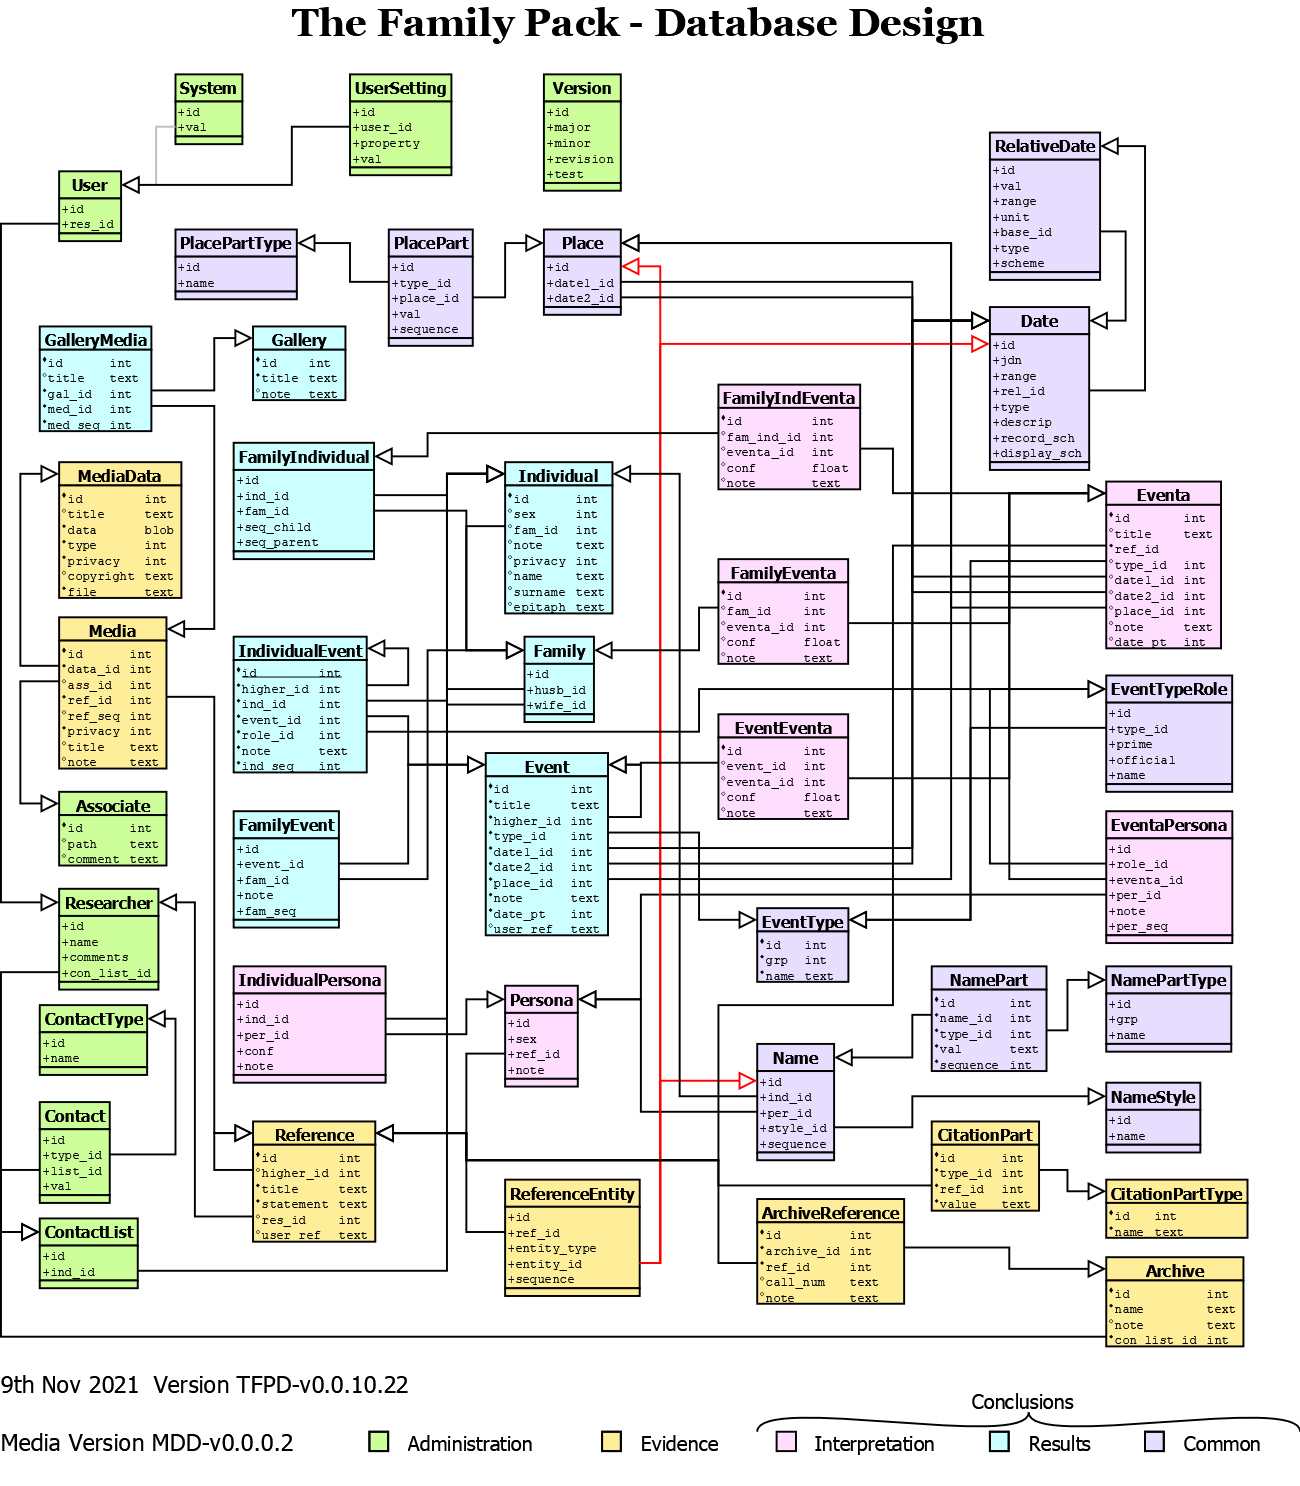
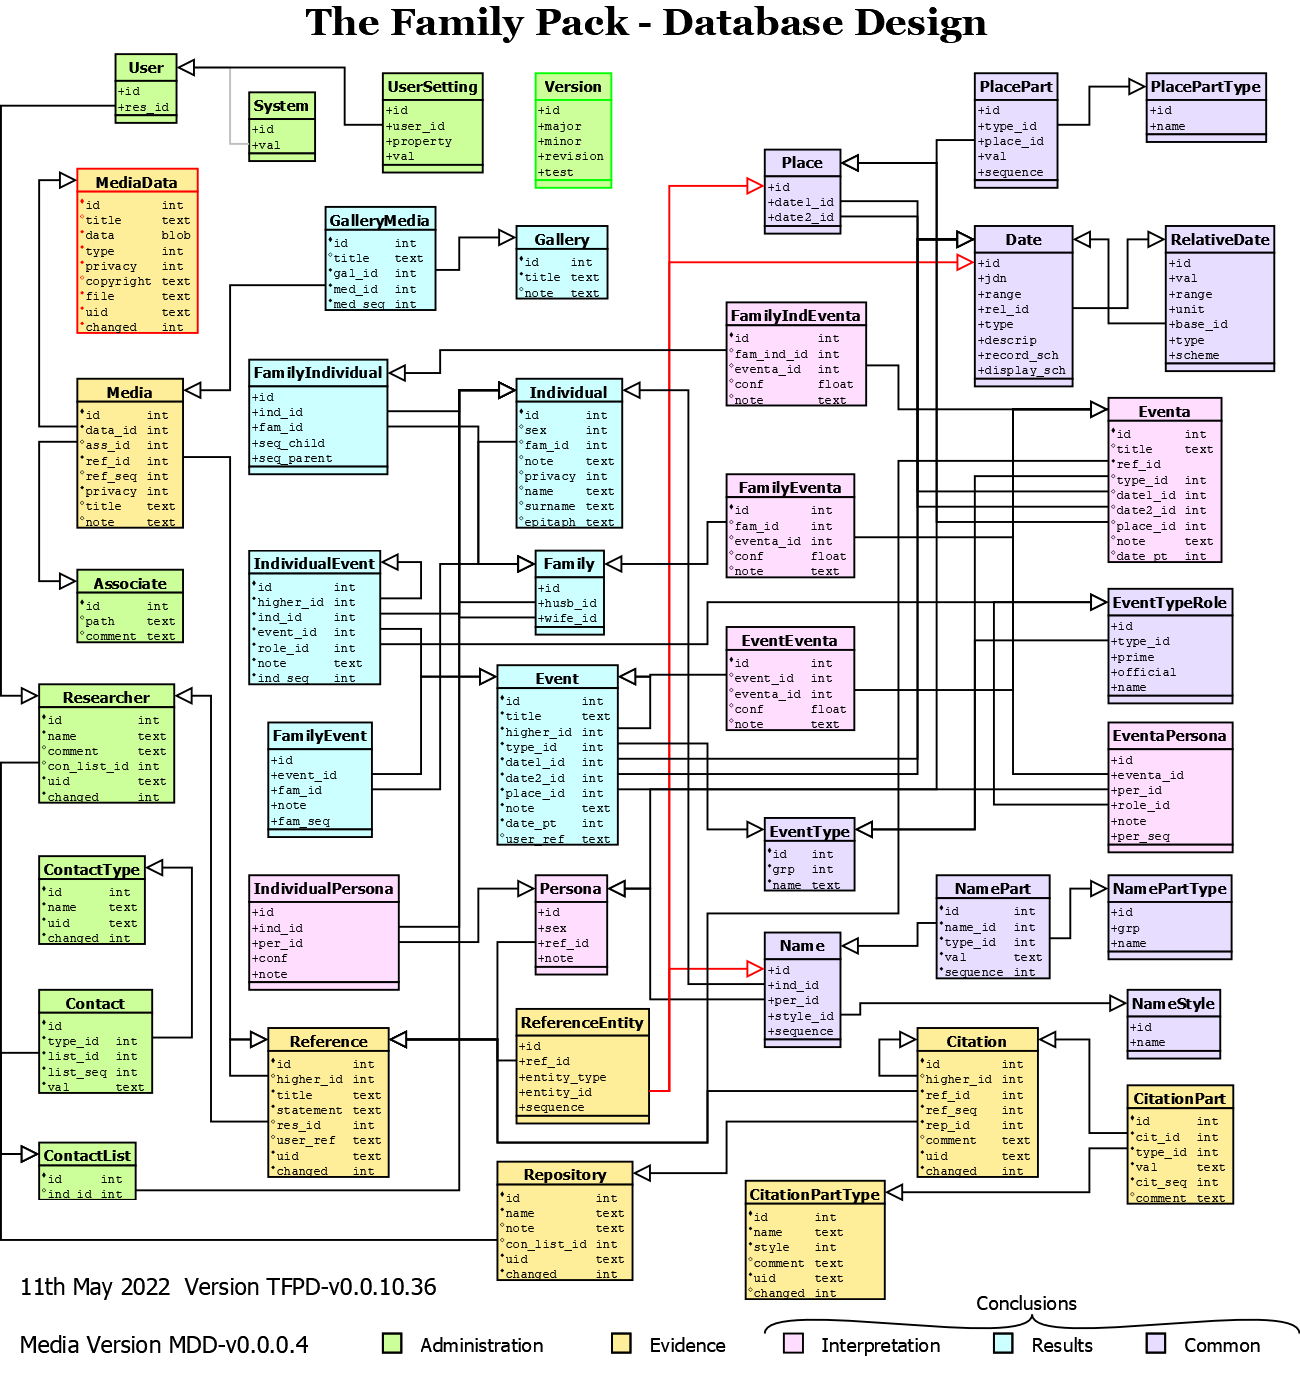
rec Library, update database to version TFPD-v0.0.10.35
Add 'list_seq' field to Contact table.

Update recUnit test files.

diff --git a/src/rec/recContact.cpp b/src/rec/recContact.cpp
@@ -47,6 +47,7 @@ recContact::recContact( const recContact& s )
     f_id       = s.f_id;
     f_type_id  = s.f_type_id;
     f_list_id  = s.f_list_id;
+    f_list_seq = s.f_list_seq;
     f_val      = s.f_val;
 }
 
@@ -55,7 +56,8 @@ void recContact::Clear()
     f_id       = 0;
     f_type_id  = 0;
     f_list_id  = 0;
-    f_val      = wxEmptyString;
+    f_list_seq = 0;
+    f_val.clear();
 }
 
 void recContact::Save( const wxString& dbname )
@@ -67,9 +69,9 @@ void recContact::Save( const wxString& dbname )
     {
         // Add new record
         sql.Format(
-            "INSERT INTO \"%s\".Contact (type_id, list_id, val) "
-            "VALUES (" ID ", " ID ", '%q');",
-            UTF8_( dbname ), f_type_id, f_list_id, UTF8_(f_val)
+            "INSERT INTO \"%s\".Contact (type_id, list_id, list_seq, val)"
+            " VALUES (" ID ", " ID ", %d, '%q');",
+            UTF8_( dbname ), f_type_id, f_list_id, f_list_seq, UTF8_(f_val)
         );
         s_db->ExecuteUpdate( sql );
         f_id = GET_ID( s_db->GetLastRowId() );
@@ -79,16 +81,19 @@ void recContact::Save( const wxString& dbname )
         {
             // Add new record
             sql.Format(
-                "INSERT INTO \"%s\".Contact (id, type_id, list_id, val) "
-                "VALUES (" ID ", " ID ", " ID ", '%q');",
-                UTF8_( dbname ), f_id, f_type_id, f_list_id, UTF8_(f_val)
+                "INSERT INTO \"%s\".Contact (id, type_id, list_id, list_seq, val)"
+                " VALUES (" ID ", " ID ", " ID ", %d, '%q');",
+                UTF8_( dbname ), f_id, f_type_id, f_list_id, f_list_seq,
+                UTF8_(f_val)
             );
         } else {
             // Update existing record
             sql.Format(
-                "UPDATE \"%s\".Contact SET type_id=" ID ", list_id=" ID ", val='%q' "
-                "WHERE id=" ID ";",
-                UTF8_( dbname ), f_type_id, f_list_id, UTF8_(f_val), f_id
+                "UPDATE \"%s\".Contact"
+                " SET type_id=" ID ", list_id=" ID ", list_seq=%d, val='%q'"
+                " WHERE id=" ID ";",
+                UTF8_( dbname ), f_type_id, f_list_id, f_list_seq,
+                UTF8_(f_val), f_id
             );
         }
         s_db->ExecuteUpdate( sql );
@@ -106,7 +111,7 @@ bool recContact::Read( const wxString& dbname )
     }
 
     sql.Format(
-        "SELECT type_id, list_id, val"
+        "SELECT type_id, list_id, list_seq, val"
         " FROM \"%s\".Contact WHERE id=" ID ";",
         UTF8_( dbname ), f_id
     );
@@ -118,18 +123,20 @@ bool recContact::Read( const wxString& dbname )
         return false;
     }
     result.SetRow( 0 );
-    f_type_id  = GET_ID( result.GetInt64( 0 ) );
-    f_list_id  = GET_ID( result.GetInt64( 1 ) );
-    f_val      = result.GetAsString( 2 );
+    f_type_id = GET_ID( result.GetInt64( 0 ) );
+    f_list_id = GET_ID( result.GetInt64( 1 ) );
+    f_list_seq = result.GetInt( 2 );
+    f_val = result.GetAsString( 3 );
     return true;
 }
 
 bool recContact::Equivalent( const recContact& r2 ) const 
 {
     return
-        f_type_id  == r2.f_type_id  &&
-        f_list_id  == r2.f_list_id  &&
-        f_val      == r2.f_val;
+        f_type_id == r2.f_type_id  &&
+        f_list_id == r2.f_list_id &&
+        f_list_seq == r2.f_list_seq &&
+        f_val == r2.f_val;
 }
 
 wxString recContact::GetHtmlValue( const wxString prefixHref ) const
@@ -165,7 +172,7 @@ void recContact::Renumber( idt id, idt to_id )
 
 std::string recContact::CsvTitles()
 {
-    return std::string( "ID, Contact Type ID, Contact List ID, Value\n" );
+    return std::string( "ID, Contact Type ID, Contact List ID, Sequence, Value\n" );
 }
 
 void recContact::CsvWrite( std::ostream& out, idt id )
@@ -174,6 +181,7 @@ void recContact::CsvWrite( std::ostream& out, idt id )
     recCsvWrite( out, con.FGetID() );
     recCsvWrite( out, con.FGetTypeID() );
     recCsvWrite( out, con.FGetListID() );
+    recCsvWrite( out, con.FGetListSeq() );
     recCsvWrite( out, con.FGetValue(), '\n' );
 }
 
@@ -182,6 +190,7 @@ bool recContact::CsvRead( std::istream& in )
     recCsvRead( in, f_id );
     recCsvRead( in, f_type_id );
     recCsvRead( in, f_list_id );
+    recCsvRead( in, f_list_seq );
     recCsvRead( in, f_val );
     return bool( in );
 }
@@ -281,8 +290,9 @@ recContactVec recContactList::GetContacts( idt listID, const wxString& dbname )
 
     wxSQLite3StatementBuffer sql;
     sql.Format(
-        "SELECT id, type_id, val"
-        " FROM \"%s\".Contact WHERE list_id=" ID ";",
+        "SELECT id, type_id, list_seq, val"
+        " FROM \"%s\".Contact WHERE list_id=" ID
+        " ORDER BY list_seq;",
         UTF8_( dbname ), listID
     );
     wxSQLite3ResultSet result = s_db->ExecuteQuery( sql );
@@ -292,7 +302,8 @@ recContactVec recContactList::GetContacts( idt listID, const wxString& dbname )
     while( result.NextRow() ) {
         con.FSetID( GET_ID( result.GetInt64( 0 ) ) );
         con.FSetTypeID( GET_ID( result.GetInt64( 1 ) ) );
-        con.FSetValue( result.GetAsString( 2 ) );
+        con.FSetListSeq( result.GetInt(2 ) );
+        con.FSetValue( result.GetAsString( 3 ) );
         list.push_back( con );
     }
     return list;
@@ -306,7 +317,8 @@ recIdVec recContactList::GetContactIDs( idt listID, const wxString& dbname )
 
     wxSQLite3StatementBuffer sql;
     sql.Format(
-        "SELECT id FROM \"%s\".Contact WHERE list_id=" ID ";",
+        "SELECT id FROM \"%s\".Contact WHERE list_id=" ID
+        " ORDER BY list_seq;",
         UTF8_( dbname ), listID
     );
     wxSQLite3ResultSet result = s_db->ExecuteQuery( sql );

diff --git a/src/rec/recUpgrade.cpp b/src/rec/recUpgrade.cpp
@@ -41,8 +41,8 @@
 const int recVerMajor = 0;
 const int recVerMinor = 0;
 const int recVerRev = 10;
-const int recVerTest = 35;                       // <<======<<<<
-const char* recFullVersion = "TFPD-v0.0.10.35";  // <<======<<<<
+const int recVerTest = 36;                       // <<======<<<<
+const char* recFullVersion = "TFPD-v0.0.10.36";  // <<======<<<<
 
 // This is the database Media-only version that this program can work with.
 // If the full version matches, then this is assumed to match as well.
@@ -1693,6 +1693,61 @@ void UpgradeTest0_0_10_34to0_0_10_35( const wxString& dbname )
     recDb::GetDb()->ExecuteUpdate( update );
 }
 
+void UpgradeTest0_0_10_35to0_0_10_36( const wxString& dbname )
+{
+    // Version 0.0.10.35 to 0.0.10.36
+
+    // Add field 'list_seq' to Contact
+    wxString update = "BEGIN;\n";
+
+    update <<
+        "CREATE TABLE \"" << dbname << "\".NewContact (\n"
+        "  id INTEGER PRIMARY KEY,\n"
+        "  type_id INTEGER NOT NULL REFERENCES ContactType(id),\n"
+        "  list_id INTEGER NOT NULL REFERENCES ContactList(id),\n"
+        "  list_seq INTEGER NOT NULL,\n"
+        "  val TEXT NOT NULL\n"
+        ");\n"
+
+        "INSERT INTO \"" << dbname << "\".NewContact\n"
+        " (id, type_id, list_id, list_seq, val)\n"
+        " SELECT id, type_id, list_id, 0, val\n"
+        " FROM \"" << dbname << "\".Contact;\n"
+
+        "DROP TABLE \"" << dbname << "\".Contact;\n"
+        "ALTER TABLE \"" << dbname << "\".NewContact RENAME TO Contact;\n"
+        ;
+
+    // Write in list_seq sequence numbers
+    wxString query = "SELECT id FROM \"" + dbname + "\".ContactList WHERE NOT id=0;\n"; // Get id list
+    wxSQLite3Table table1 = recDb::GetDb()->GetTable( query );
+    size_t size1 = (size_t) table1.GetRowCount();
+    for( size_t i = 0; i < size1; i++ ) {
+        table1.SetRow( i );
+        query =
+            "SELECT id FROM \"" + dbname + "\".Contact"
+            " WHERE list_id=" + table1.GetAsString( 0 ) +
+            " ORDER BY id;\n";
+        wxSQLite3Table table2 = recDb::GetDb()->GetTable( query );
+        size_t size2 = (size_t) table2.GetRowCount();
+        for( size_t j = 0; j < size2; j++ ) {
+            table2.SetRow( j );
+            update <<
+                "UPDATE \"" << dbname << "\".Contact"
+                " SET list_seq=" << (j + 1) <<
+                " WHERE id=" << table2.GetAsString( 0 ) << ";\n"
+                ;
+        }
+    }
+
+    update <<
+        "UPDATE \"" << dbname << "\".Version SET test=36 WHERE id=1;\n"
+        "COMMIT;\n"
+        ;
+
+    recDb::GetDb()->ExecuteUpdate( update );
+}
+
 
 void UpgradeRev0_0_10toCurrent( int test, const wxString& dbname )
 {
@@ -1733,6 +1788,7 @@ void UpgradeRev0_0_10toCurrent( int test, const wxString& dbname )
     case 32: UpgradeTest0_0_10_32to0_0_10_33( dbname );
     case 33: UpgradeTest0_0_10_33to0_0_10_34( dbname );
     case 34: UpgradeTest0_0_10_34to0_0_10_35( dbname );
+    case 35: UpgradeTest0_0_10_35to0_0_10_36( dbname );
     }
 }
 

diff --git a/include/rec/recContact.h b/include/rec/recContact.h
@@ -155,7 +155,7 @@ class recContact : public recDbT<recContact>
 public:
     static constexpr const char* s_tablename = "Contact";
 
-    recContact() : f_type_id(0), f_list_id(0) {}
+    recContact() : f_type_id(0), f_list_id(0), f_list_seq(0) {}
     recContact( idt id, const wxString& dbname = "Main" ) : recDbT(id) { Read( dbname ); }
     recContact( const recContact& source );
 
@@ -166,10 +166,12 @@ public:
 
     idt FGetTypeID() const { return f_type_id; }
     idt FGetListID() const { return f_list_id; }
+    int FGetListSeq() const { return f_list_seq; }
     wxString FGetValue() const { return f_val; }
 
     void FSetTypeID( idt typeID ) { f_type_id = typeID; }
     void FSetListID( idt listID ) { f_list_id = listID; }
+    void FSetListSeq( idt seq ) { f_list_seq = seq; }
     void FSetValue( const wxString& value ) { f_val = value; }
 
     static wxString GetIdStr( idt resID ) { return wxString::Format( "C" ID, resID ); }
@@ -190,6 +192,7 @@ public:
 private:
     idt      f_type_id;
     idt      f_list_id;
+    int      f_list_seq;
     wxString f_val;
 };
 

diff --git a/src/rec/recDatabaseCreate.h b/src/rec/recDatabaseCreate.h
@@ -100,9 +100,10 @@ static const char* createFullDb =  /* recCreateFull.sql */
  "  id INTEGER PRIMARY KEY,\n"
  "  type_id INTEGER NOT NULL REFERENCES ContactType(id),\n"
  "  list_id INTEGER NOT NULL REFERENCES ContactList(id),\n"
+ "  list_seq INTEGER NOT NULL,\n"
  "  val TEXT NOT NULL\n"
  ");\n"
- "INSERT INTO Contact (id, type_id, list_id, val) VALUES(0,0,0,'');\n"
+ "INSERT INTO Contact (id, type_id, list_id, list_seq, val) VALUES(0,0,0,0,'');\n"
  "CREATE TABLE ContactList (\n"
  "  id INTEGER PRIMARY KEY,\n"
  "  ind_id INTEGER REFERENCES Individual(id)\n"
@@ -538,7 +539,7 @@ static const char* createFullDb =  /* recCreateFull.sql */
  "INSERT INTO User (id, res_id) VALUES(1, -1);\n"
  "INSERT INTO System (id, val) VALUES(1, '1');\n"
  "INSERT INTO UserSetting (id, user_id, property, val) VALUES(1, 1, 1, 'NI');\n"
- "INSERT INTO Version (id, major, minor, revision, test) VALUES(1, 0, 0, 10, 35);\n"
+ "INSERT INTO Version (id, major, minor, revision, test) VALUES(1, 0, 0, 10, 36);\n"
  "COMMIT;\n";
 
 /* End of src/rec/embed/recDatabaseCreate.f2c */
